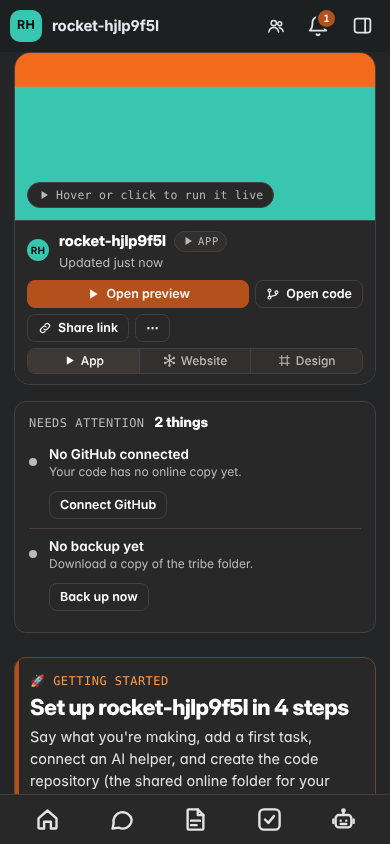
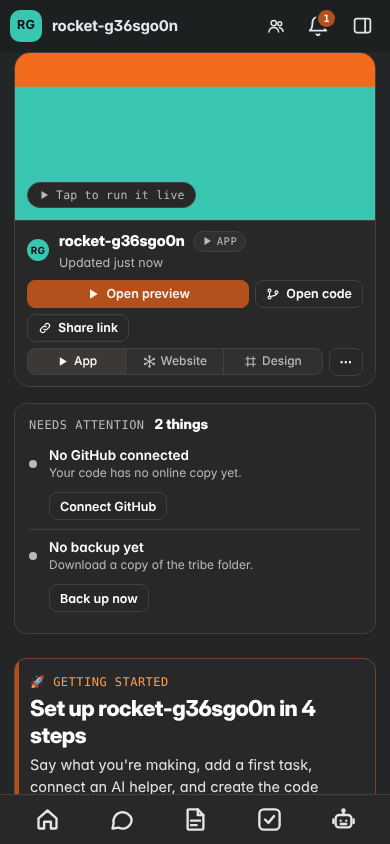
Dashboard band: tools row stays together, Tap hint on phones, docs and screenshots
Claude-Session: https://claude.ai/code/session_01Twew38tmNVdwNycXqatzin

diff --git a/HANDOFF.md b/HANDOFF.md
@@ -69,6 +69,7 @@ Pushing from the Claude cloud sandbox:
   - `demo.js` + `scripts/start-demo-tribe.js`: the demo tribe (templates/lantern-run, templates/tavern-3d).
   - `app/ui/demowatch.js`: "See how TribeCode works", the hands-off ~2-minute tour with Flint: one short chapter per feature (Home, a project, chat, tasks with accept and council claim, docs, Files, canvas, website designer, preview pin, Work and approvals, Claude as a teammate, Company, inspiration board, a pretend huddle, Flint's lesson and the AI-boost card, Your turn), chapter dots to jump (`app/?demo=watch`, the site's hero link, Help, the empty Home's Tour with Flint, Welcome's Just watch it). Every demo (offline.js) lives in its tab only and never touches the saved settings. Tests: e2e_demo_watch, e2e_demo_actions, e2e_demo_isolation. Before step 1 a fresh start gets the full-screen intro (`app/ui/demointro.js`: five slides, a chapter map that starts anywhere, Skip intro, "Don't show again"; test e2e_demo_intro); after the tour `app/ui/signupnudge.js` shows "Ready to make your own?" to people with no account (every way in and its failure handling: docs/SIGNUP-FLOWS.md; test e2e_signup_nudge).
   - `places.js` + `app/ui/presence.js` + `app/ui/peoplepanel.js`: where everyone is. Small `place` websocket frames on route change (doc, website designer, channel, task, preview, canvas; a DM is only "in messages"), filtered per viewer, Show where I am / Appear away, last seen; avatars on places and list rows; the People button in the top bar (This tribe · Friends, Jump to; Friends has star, invite link and the one-time guest pass: the old friends.js button is retired). `GET /api/places`, `PUT /api/places/prefs`. Test: `app/test/e2e_presence.py`.
+  - `dashband.js` + `app/ui/dashband.js`: the dashboard's top (feat/dash-preview): a preview band of the main project (the running app, else the website, else the latest design, else Set up your preview; cached `/api/thumb?prefer=shot` picture, live iframe only on hover/click; Switch App/Website/Design; leads pin the tribe's main project, default the most active) and Needs attention under it (`/api/dash/criticals`: build/preview errors, approvals, Accept, overdue/blocked, website comments, setup gaps, company health, mentions; at most 5, Show all, All clear). Agents report builds with `POST /api/dash/signal`. Home shows the band for your most recent project. Test: `e2e_dash_preview.py`.
   - `share.js`: public https via Tailscale Funnel or cloudflared.
   - `site.js`: GitHub Pages friend links.
   - `devices.js`: phone device links.

diff --git a/docs/NAVIGATION.md b/docs/NAVIGATION.md
@@ -26,7 +26,8 @@ Where every button goes, and the one router that keeps it continuous on desktop 
 | Global: Code (`#nest-repos-all`, key `repos-all` kept) | `TribeHub.open('repos')`: the repos you're in, then your code files | global | `#/hub/repos` |
 | Global: Work (`#nest-work`) | `TribeTalent.open()`; with no tribe, its empty state (Start your first project · Join with a link · Back to Home) | global | `#/hub/work` |
 | Global: Agent fleet (`#nest-fleet`) | `TribeAgentsHub.open({ global: true })` | global | `#/fleet` |
-| Project: Dashboard (`#nest-overview`) | `App.show('home')` | project | |
+| Project: Dashboard (`#nest-overview`) | `App.show('home')`: the preview band of the project (app · website · design, `app/ui/dashband.js`), Needs attention under it, then the rest | project | |
+| Dashboard band actions | Open preview (`TribePreview`), Open code (`App.show('repo')`) / Open designer (`TribeSiteDesigner`) / Open design (`TribeCanvas`), Share link (copies), Switch App · Website · Design, ⋯ Pin as main project (leads). Each Needs attention row has one action (inbox, Accept in place, tasks, designer, Company, GitHub, backup) | project | |
 | Project: Messages (`#nest-chat`), streams | `App.show('chat')`, DMs, channels | project | |
 | Project: Files (`#nest-docs`) | Files tabs (stroke icons): Files · Code · Docs · Website · Captures · Academy; the Files tab is the shared Files dashboard | project | `#/docs/<tab>` |
 | Project: Design (`#nest-canvas`) | The design canvas | project | |
